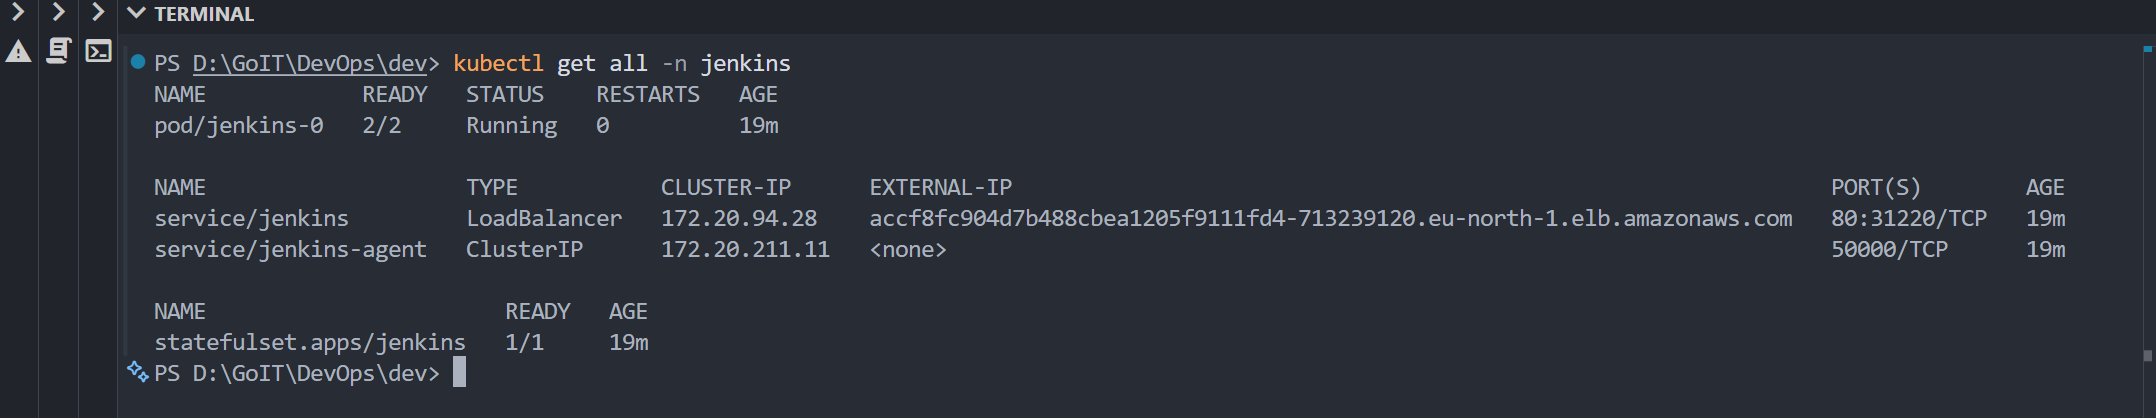
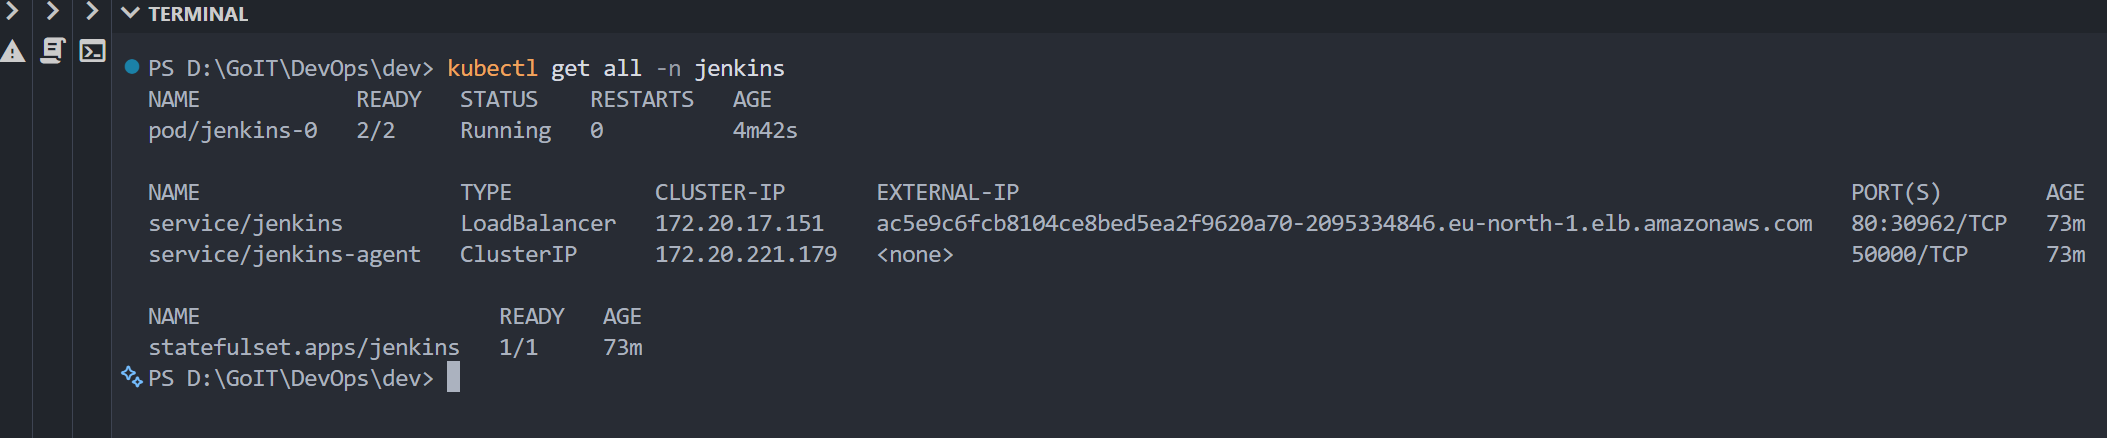
changes

diff --git a/README.md b/README.md
@@ -123,10 +123,13 @@ kubectl get all -n monitoring
 
 | Інструмент | Команда для доступу | URL |
 | :--- | :--- | :--- |
-| **Jenkins** | `kubectl port-forward svc/jenkins 8080:8080 -n jenkins` | http://localhost:8080 |
+| **Jenkins** | `kubectl port-forward svc/jenkins 8080:80 -n jenkins` | http://localhost:8080 |
 | **Argo CD** | `kubectl port-forward svc/argocd-server 8081:443 -n argocd` | https://localhost:8081 |
 | **Grafana** | `kubectl port-forward svc/grafana 3000:80 -n monitoring` | http://localhost:3000 |
 | **Prometheus**| `kubectl port-forward svc/prometheus-server 9090:80 -n monitoring` | http://localhost:9090 |
+
+![alt text](screenshots/04.png)
+
 
 > **Credentials**:
 > - **Argo CD**: `admin` / (пароль генерується автоматично в секретах)
